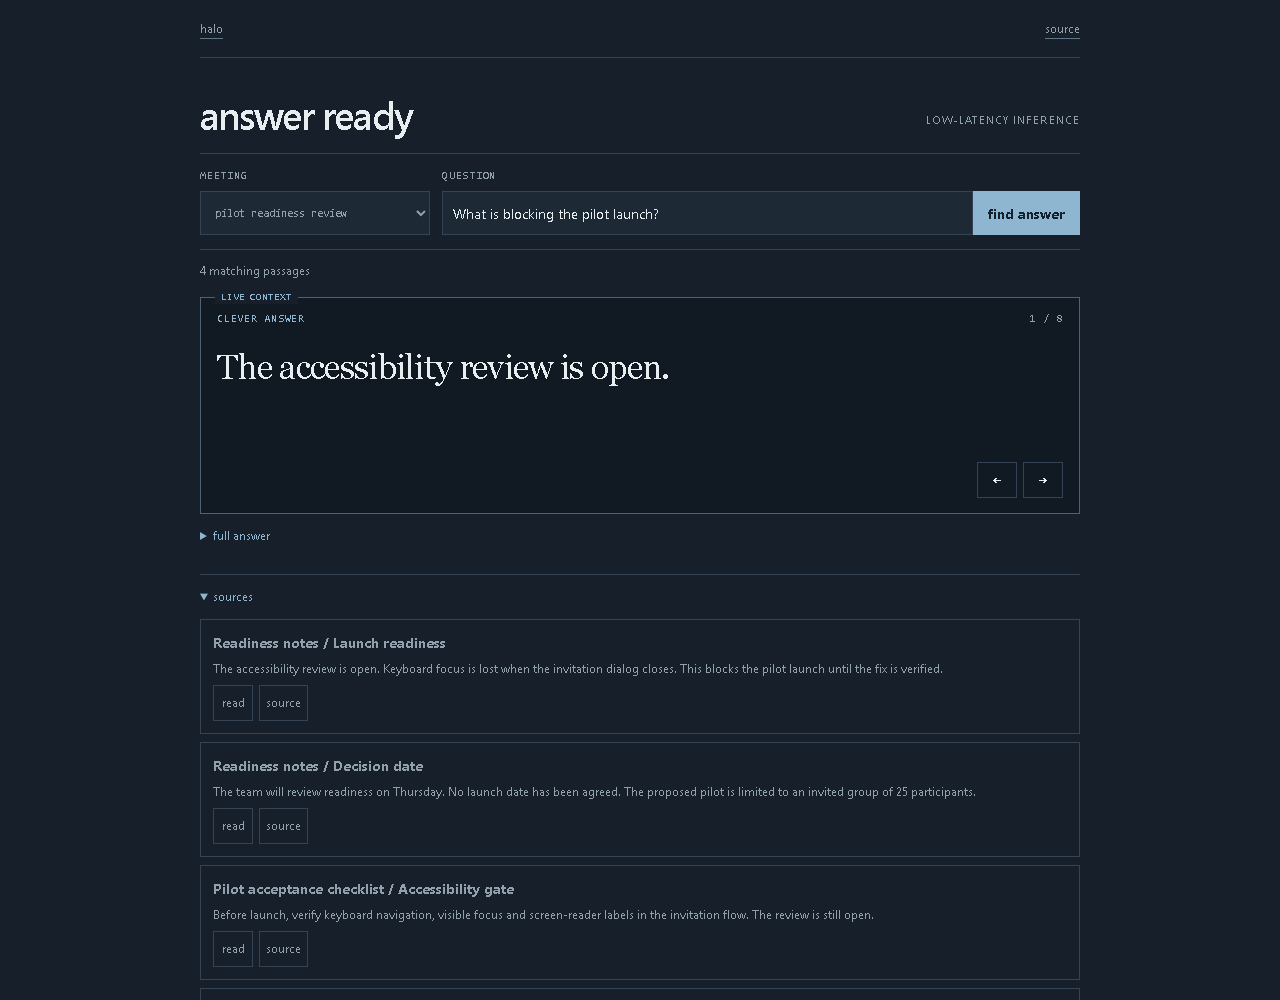
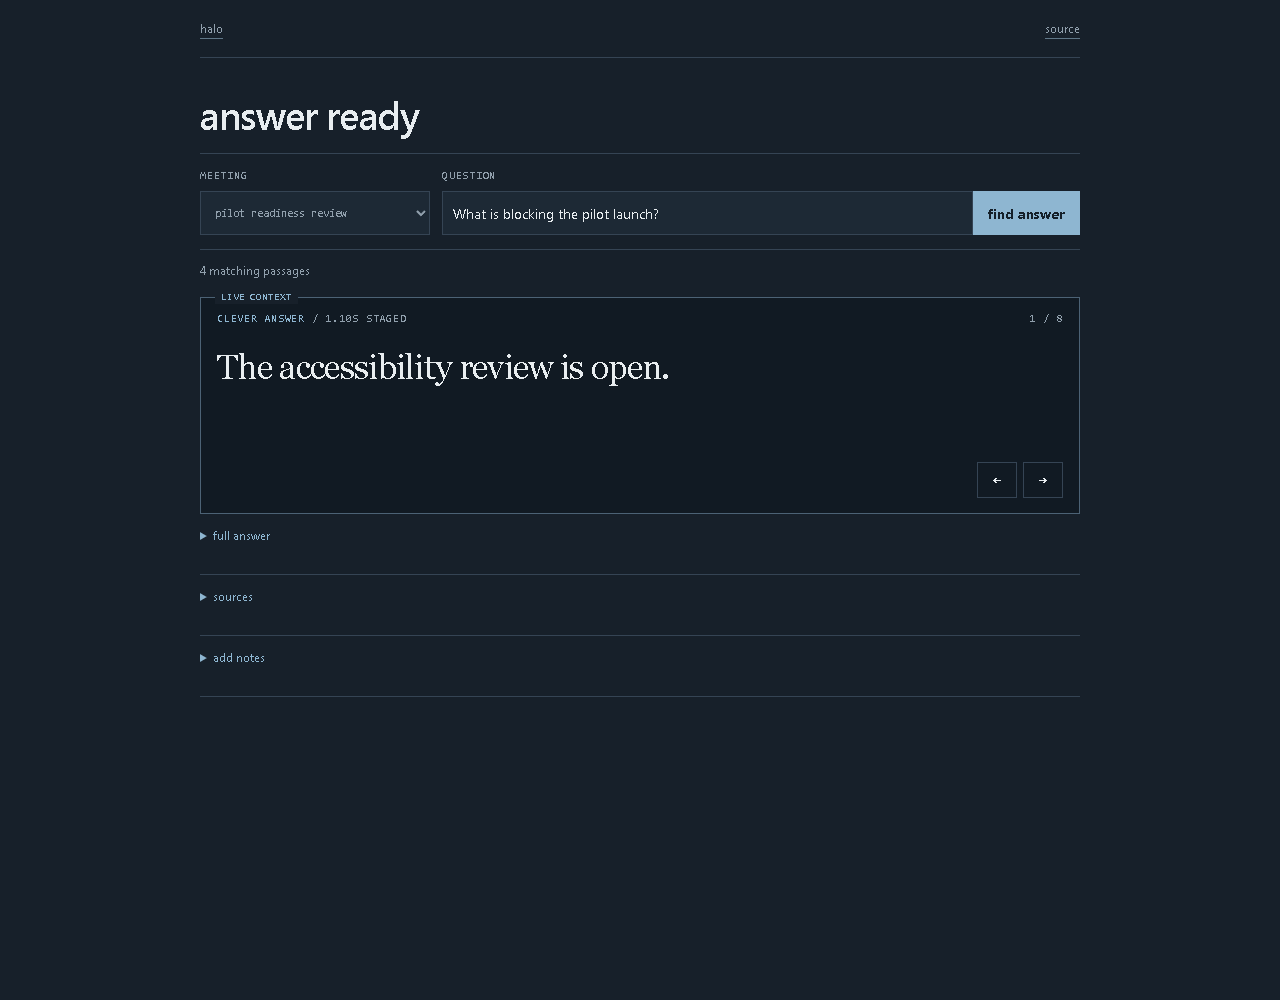
Make HALO prove its response timing

diff --git a/examples/portfolio/index.html b/examples/portfolio/index.html
@@ -1,10 +1,10 @@
-<!doctype html><html lang="en"><head><meta charset="utf-8"><meta name="viewport" content="width=device-width,initial-scale=1"><title>halo / meeting assistant</title><link rel="stylesheet" href="style.css"><link rel="stylesheet" href="identity.css"></head><body>
+<!doctype html><html lang="en"><head><meta charset="utf-8"><meta name="viewport" content="width=device-width,initial-scale=1"><title>halo / meeting assistant</title><link rel="icon" href="favicon.svg" type="image/svg+xml"><link rel="stylesheet" href="style.css"><link rel="stylesheet" href="identity.css"></head><body>
 <header><a href="https://lolstar123.github.io/just-a-little-further/">halo</a><a href="https://github.com/LolStar123/halo">source</a></header>
 <main>
-<section class="hero"><p>low-latency inference</p><h1>answer ready</h1></section>
+<section class="hero"><h1>answer ready</h1></section>
 <section class="question-panel"><label>meeting<select id="pack"></select></label><form id="question-form"><label for="question">question</label><div><input id="question" placeholder="What is blocking launch?"><button>find answer</button></div></form></section>
 <p id="status" role="status"></p>
-<section class="reader"><div class="reader-top"><span id="answer-stage">fast answer</span><span id="position"></span></div><p id="sentence" aria-live="polite"></p><div class="reader-controls"><button id="back">←</button><button id="next">→</button></div></section>
+<section class="reader"><div class="reader-top"><span><span id="answer-stage">fast answer</span><span id="latency"></span></span><span id="position"></span></div><p id="sentence" aria-live="polite"></p><div class="reader-controls"><button id="back">←</button><button id="next">→</button></div></section>
 <details class="full"><summary>full answer</summary><p id="full-answer"></p><label>type size<input id="size" type="range" min="24" max="46" value="32"></label><textarea id="cue" rows="5"></textarea><button id="apply-cue">use edited answer</button></details>
 <details><summary>sources</summary><div id="evidence"></div></details>
 <details id="note-editor"><summary>add notes</summary><div id="documents"></div><label>title<input id="note-title" value="My meeting notes"></label><label>notes<textarea id="note-text" rows="6"></textarea></label><button id="add-note">add notes</button><label>load text files<input id="files" type="file" multiple accept=".txt,.md,text/plain,text/markdown"></label><button id="reset">restore example</button><button id="export">export notes</button><p id="note-status"></p><div id="history" hidden></div></details>

diff --git a/examples/portfolio/identity.css b/examples/portfolio/identity.css
@@ -1,2 +1,2 @@
 /* teleprompter: the answer owns the screen */
-body{font-family:"Segoe UI",Arial,sans-serif}header{height:58px}main{padding:38px 0 48px}.hero{display:flex;align-items:end;justify-content:space-between;gap:24px;margin-bottom:20px}.hero p{order:2;margin:0 0 4px}.hero h1{margin:0;font:600 39px/.94 "Segoe UI",Arial,sans-serif;letter-spacing:-.05em}.question-panel{padding:14px 0}.question-panel label{font-family:ui-monospace,Consolas,monospace}.reader{position:relative;margin-top:12px;padding:13px 16px 15px;border:1px solid #4c6275;background:#111a23}.reader:before{content:"LIVE CONTEXT";position:absolute;top:-8px;left:14px;padding:0 6px;background:var(--bg);color:var(--blue);font:10px/1.4 ui-monospace,Consolas,monospace;letter-spacing:.09em}#sentence{min-height:96px;margin:19px 0;font-size:34px;line-height:1.18}.reader-top,.reader-controls{font-family:ui-monospace,Consolas,monospace}summary{padding:13px 0}@media(max-width:650px){main{padding:30px 0 40px}.hero{display:block}.hero p{margin-bottom:8px}.hero h1{font-size:36px}.question-panel{grid-template-columns:1fr}#sentence{min-height:120px;font-size:28px}}
+body{font-family:"Segoe UI",Arial,sans-serif}header{height:58px}main{padding:38px 0 48px}.hero{margin-bottom:20px}.hero h1{margin:0;font:600 39px/.94 "Segoe UI",Arial,sans-serif;letter-spacing:-.035em}.question-panel{padding:14px 0}.question-panel label{font-family:ui-monospace,Consolas,monospace}.reader{position:relative;margin-top:12px;padding:13px 16px 15px;border:1px solid #4c6275;background:#111a23}.reader:before{content:"LIVE CONTEXT";position:absolute;top:-8px;left:14px;padding:0 6px;background:var(--bg);color:var(--blue);font:10px/1.4 ui-monospace,Consolas,monospace;letter-spacing:.09em}#sentence{min-height:96px;margin:19px 0;font-size:34px;line-height:1.18}.reader-top,.reader-controls{font-family:ui-monospace,Consolas,monospace}#latency{color:var(--muted)}dialog{padding:20px}summary{padding:13px 0}@media(max-width:650px){main{padding:30px 0 40px}.hero h1{font-size:36px}.question-panel{grid-template-columns:1fr}#sentence{min-height:120px;font-size:28px}}

diff --git a/tools/browser_audit.py b/tools/browser_audit.py
@@ -20,7 +20,9 @@ try:
         assert page.evaluate('__halo.passages')>=8
         assert page.evaluate('__halo.matches')>0
         assert page.evaluate('__halo.stage')=='fast answer'
+        assert 'ms local' in page.locator('#latency').inner_text().lower()
         page.wait_for_function("window.__halo.stage === 'clever answer'")
+        assert page.locator('#latency').inner_text().strip().lower() == '/ 1.10s staged'
         first=page.locator('#sentence').inner_text()
         page.locator('#next').click()
         assert page.locator('#sentence').inner_text()!=first
@@ -47,6 +49,7 @@ try:
         assert 'seven crates' in Path(dl.value.path()).read_text()
         page.locator('#reset').click()
         page.wait_for_function("window.__halo.stage === 'clever answer'")
+        page.locator('details summary').nth(1).click()
         page.locator('#note-editor summary').click()
         page.evaluate('window.scrollTo(0,0)')
         page.screenshot(path=str(ROOT/'examples/portfolio/preview.png'))

diff --git a/DESIGN.md b/DESIGN.md
@@ -1,0 +1,10 @@
+# HALO demo design
+
+HALO is a reading surface for moments when a useful answer needs to arrive quickly and stay legible.
+
+- Make the current sentence the largest object on the page.
+- Expose the fast-to-clever handoff and its timing rather than claiming speed in decorative copy.
+- Keep meeting selection and the question directly above the answer.
+- Put full answers, evidence and note editing behind disclosure controls.
+- Preserve source-backed retrieval, no-evidence behavior and sentence navigation.
+- Keep the public demo honest: local retrieval and staged example answers, with no hosted model call.
